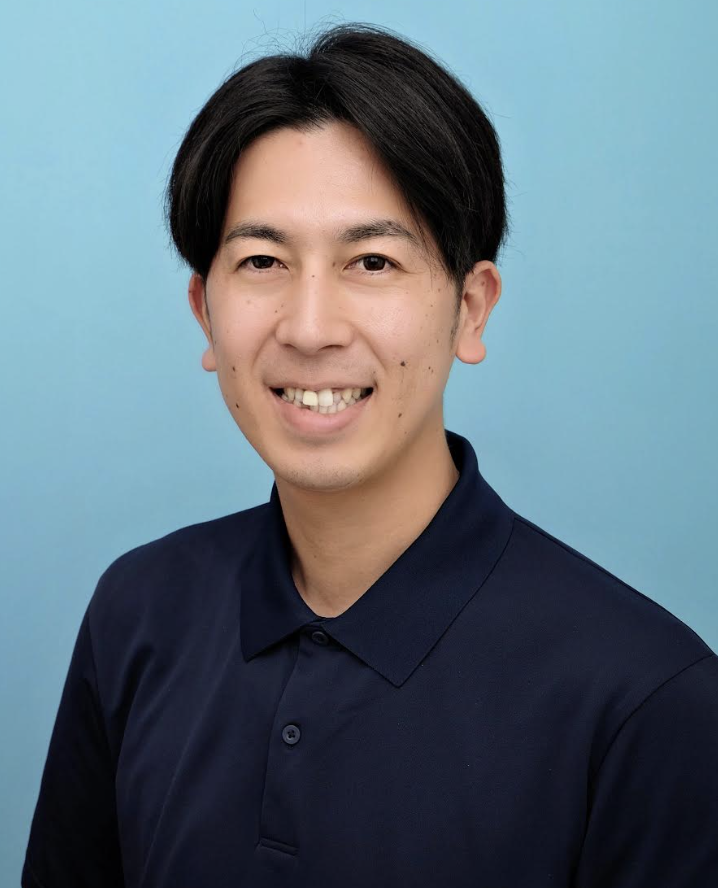
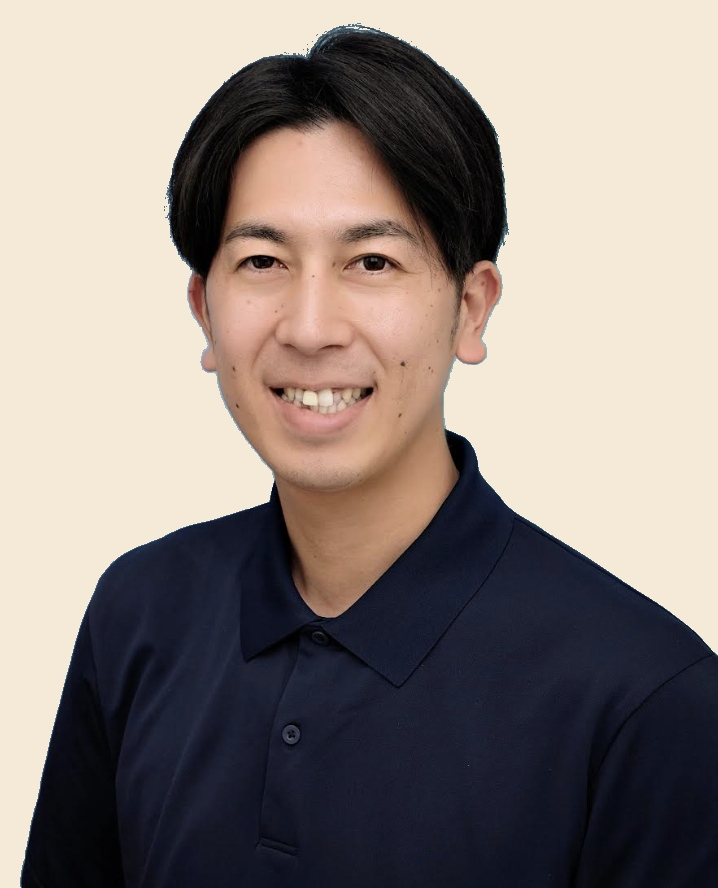
ヒーロー・ヘッダー全面リニューアル＋代表写真背景クリーム色化
- 代表写真の背景色を水色→クリーム#f5ead7に置換（Python Pillow）
- ヘッダー高さ: 64px→80px（デスクトップ）/ 60px 1行化（モバイル）
- モバイルヘッダーから電話番号削除・ロゴ+ハンバーガーの1行に整理
- ヒーロー: 代表写真を280px（デスクトップ）/ 160px（モバイル）に
- 装飾ロゴをヒーローから削除
- モバイルでキャッチコピーを写真より先に表示（CSS order制御）
- キャッチコピー: 48px（デスクトップ）/ 36px（タブレット）/ 28px（モバイル）
- CTAボタン: オレンジ#f59e0bに統一
- sticky-ctaにiPhone safe-area-inset-bottom対応

diff --git a/index.html b/index.html
@@ -74,28 +74,25 @@
   <style>
     /* トップページ専用スタイル */
     #hero {
-      margin-top: 108px;
+      margin-top: 128px;
       background: linear-gradient(135deg, #1e3a5f 0%, #2c5282 100%);
-      padding: 70px 20px 80px;
+      padding: 64px 20px 72px;
       color: #fff;
       position: relative;
       overflow: hidden;
     }
-    #hero::before { content: ''; position: absolute; top: -60px; right: -60px; width: 420px; height: 420px; background: rgba(255,255,255,0.04); border-radius: 50%; }
-    #hero::after { content: ''; position: absolute; bottom: -40px; left: -40px; width: 280px; height: 280px; background: rgba(255,255,255,0.03); border-radius: 50%; }
-    .hero-inner { max-width: 1100px; margin: 0 auto; display: grid; grid-template-columns: 2fr 3fr; gap: 60px; align-items: center; position: relative; z-index: 1; }
-    .hero-left { text-align: center; display: flex; flex-direction: column; align-items: center; gap: 16px; }
-    .hero-logo { height: 44px; width: auto; filter: drop-shadow(0 0 8px rgba(255,255,255,0.5)); }
-    .hero-rep-photo { width: 160px; height: 160px; border-radius: 50%; object-fit: cover; object-position: 50% 30%; border: 4px solid rgba(255,255,255,0.55); box-shadow: 0 8px 32px rgba(0,0,0,0.35); margin-left: auto; }
-    .hero-rep-name { font-size: 0.82rem; color: rgba(255,255,255,0.75); line-height: 1.7; letter-spacing: 0.05em; }
-    .hero-rep-name strong { display: block; font-size: 1.05rem; font-weight: 900; color: #fff; letter-spacing: 0.08em; }
-    .hero-catch { font-size: 2.5rem; font-weight: 900; line-height: 1.4; margin-bottom: 20px; letter-spacing: 0.04em; }
-    .hero-desc { font-size: 0.98rem; color: #cdd9e5; margin-bottom: 32px; line-height: 1.95; }
+    .hero-inner { max-width: 1100px; margin: 0 auto; display: grid; grid-template-columns: 320px 1fr; gap: 64px; align-items: center; }
+    .hero-left { text-align: center; display: flex; flex-direction: column; align-items: center; gap: 14px; }
+    .hero-rep-photo { width: 280px; height: 280px; border-radius: 50%; object-fit: cover; object-position: 50% 20%; border: 4px solid rgba(255,255,255,0.3); box-shadow: 0 12px 40px rgba(0,0,0,0.3); }
+    .hero-rep-name { font-size: 0.84rem; color: rgba(255,255,255,0.72); line-height: 1.7; letter-spacing: 0.05em; }
+    .hero-rep-name strong { display: block; font-size: 1.1rem; font-weight: 900; color: #fff; letter-spacing: 0.08em; }
+    .hero-catch { font-size: 3rem; font-weight: 900; line-height: 1.35; margin-bottom: 20px; letter-spacing: 0.04em; }
+    .hero-desc { font-size: 1rem; color: rgba(255,255,255,0.88); margin-bottom: 32px; line-height: 1.9; }
     .hero-cta-btns { display: flex; gap: 12px; flex-wrap: wrap; margin-bottom: 18px; }
     .hero-about-btn { display: inline-flex; align-items: center; justify-content: center; background: rgba(255,255,255,0.12); color: #fff; border: 2px solid rgba(255,255,255,0.45); border-radius: 10px; padding: 14px 22px; font-weight: 700; font-size: 0.92rem; transition: all 0.2s; text-decoration: none; }
     .hero-about-btn:hover { background: rgba(255,255,255,0.22); }
-    .hero-contact-btn { display: inline-flex; align-items: center; justify-content: center; background: var(--orange, #e07820); color: #fff; border-radius: 10px; padding: 14px 22px; font-weight: 700; font-size: 0.92rem; transition: background 0.2s; text-decoration: none; }
-    .hero-contact-btn:hover { background: #c0661a; }
+    .hero-contact-btn { display: inline-flex; align-items: center; justify-content: center; background: #f59e0b; color: #fff; border-radius: 10px; padding: 14px 22px; font-weight: 700; font-size: 0.92rem; transition: background 0.2s; text-decoration: none; }
+    .hero-contact-btn:hover { background: #d97706; }
     .hero-tel-small { font-size: 0.84rem; color: rgba(255,255,255,0.65); }
     .hero-tel-small a { color: rgba(255,255,255,0.9); font-weight: 700; text-decoration: none; border-bottom: 1px solid rgba(255,255,255,0.3); }
     /* 実績カウンター */
@@ -121,15 +118,19 @@
     .service-icon svg { width: 44px; height: 44px; }
 
     @media (max-width: 900px) {
-      .hero-inner { grid-template-columns: 1fr; gap: 36px; }
-      .hero-catch { font-size: 2rem; }
+      #hero { margin-top: 60px; padding: 40px 16px 56px; }
+      .hero-inner { grid-template-columns: 1fr; gap: 0; }
+      /* モバイル順序: キャッチ→サブ→CTA(hero-right)が先、写真(hero-left)が後 */
+      .hero-right { order: 1; }
+      .hero-left { order: 2; margin-top: 32px; }
+      .hero-catch { font-size: 2.25rem; }
+      .hero-rep-photo { width: 160px; height: 160px; margin: 0 auto; }
       .promises-grid { grid-template-columns: 1fr; gap: 20px; }
     }
     @media (max-width: 600px) {
-      #hero { padding: 44px 16px 56px; margin-top: 78px; }
-      .hero-rep-photo { width: 130px; height: 130px; margin-left: auto; }
-      .hero-catch { font-size: 1.7rem; line-height: 1.45; margin-bottom: 16px; }
-      .hero-desc { font-size: 0.91rem; line-height: 1.85; }
+      #hero { padding: 32px 16px 48px; }
+      .hero-catch { font-size: 1.75rem; line-height: 1.4; margin-bottom: 14px; }
+      .hero-desc { font-size: 0.93rem; line-height: 1.85; }
       .hero-cta-btns { flex-direction: column; }
       .hero-about-btn, .hero-contact-btn { text-align: center; padding: 16px 20px; font-size: 0.95rem; }
       /* ヘッダー */
@@ -244,9 +245,8 @@
 <section id="hero">
   <div class="hero-inner">
     <div class="hero-left">
-      <img src="logo.png" alt="神奈川まごころ整理センター ロゴ" class="hero-logo">
       <img src="IMG_1828.jpg" alt="神奈川まごころ整理センター代表取締役 粟野匠音" class="hero-rep-photo" onerror="this.style.display='none';this.nextElementSibling.style.display='flex';">
-      <div style="display:none;width:160px;height:160px;border-radius:50%;background:var(--navy,#1E3A5F);color:#fff;font-size:2rem;font-weight:900;align-items:center;justify-content:center;border:4px solid rgba(255,255,255,0.55);box-shadow:0 8px 32px rgba(0,0,0,0.35);margin-left:auto;">粟</div>
+      <div style="display:none;width:280px;height:280px;border-radius:50%;background:#2c5282;color:#fff;font-size:3rem;font-weight:900;align-items:center;justify-content:center;border:4px solid rgba(255,255,255,0.3);box-shadow:0 12px 40px rgba(0,0,0,0.3);">粟</div>
       <p class="hero-rep-name">代表取締役<strong>粟野 匠音</strong></p>
     </div>
     <div class="hero-right">

diff --git a/style.css b/style.css
@@ -83,7 +83,7 @@ a { text-decoration: none; color: inherit; }
   display: flex;
   align-items: center;
   justify-content: space-between;
-  padding: 12px 20px;
+  padding: 20px 24px;
   max-width: 1100px;
   margin: 0 auto;
 }
@@ -101,10 +101,10 @@ a { text-decoration: none; color: inherit; }
   padding: 10px 20px;
   font-size: 0.8rem;
   color: var(--gray);
-  margin-top: 108px;
+  margin-top: 128px;
 }
 @media (max-width: 900px) {
-  .breadcrumb { margin-top: 78px; }
+  .breadcrumb { margin-top: 60px; }
 }
 .breadcrumb a { color: var(--navy); }
 .breadcrumb span { margin: 0 6px; }
@@ -278,7 +278,7 @@ footer { background: #111; color: #888; font-size: 0.8rem; padding: 30px 20px; t
 footer p { margin-bottom: 6px; }
 
 /* ===== 固定CTA（スマホ） ===== */
-.sticky-cta { display: none; position: fixed; bottom: 0; left: 0; right: 0; z-index: 999; background: var(--navy); padding: 10px 16px; gap: 10px; }
+.sticky-cta { display: none; position: fixed; bottom: 0; left: 0; right: 0; z-index: 999; background: var(--navy); padding: 10px 16px; padding-bottom: calc(10px + env(safe-area-inset-bottom)); gap: 10px; }
 .sticky-tel { flex: 1; background: var(--orange); color: #fff; text-align: center; padding: 14px 8px; border-radius: 8px; font-weight: 900; font-size: 1rem; min-height: 52px; display: flex; align-items: center; justify-content: center; }
 .sticky-line { flex: 1; background: #06c755; color: #fff; text-align: center; padding: 14px 8px; border-radius: 8px; font-weight: 900; font-size: 1rem; min-height: 52px; display: flex; align-items: center; justify-content: center; }
 
@@ -316,25 +316,16 @@ footer p { margin-bottom: 6px; }
   .section-title { font-size: 1.35rem; line-height: 1.5; margin-bottom: 10px; }
   .section-sub { font-size: 0.88rem; margin-bottom: 30px; }
 
-  /* ヘッダー：スマホ2行レイアウト */
+  /* ヘッダー：スマホ1行レイアウト（60px） */
   .header-inner {
-    flex-direction: column;
-    align-items: flex-start;
-    padding: 8px 12px;
-    gap: 3px;
-  }
-  .header-logo { font-size: 0.88rem; gap: 7px; white-space: nowrap; }
-  .header-logo img { height: 28px !important; }
-  .header-tel {
     flex-direction: row;
     align-items: center;
-    justify-content: flex-start;
-    gap: 8px;
-    width: 100%;
+    padding: 0 16px;
+    height: 60px;
   }
-  .header-tel small { display: block !important; font-size: 0.7rem; color: #9ab; white-space: nowrap; }
-  .header-tel a { font-size: 1.1rem; letter-spacing: 0.02em; }
-  .header-tel a::before { content: "📞 "; font-size: 0.9rem; }
+  .header-logo { font-size: 0.9rem; gap: 8px; white-space: nowrap; }
+  .header-logo img { height: 30px !important; }
+  .header-tel { display: none; }
 
   /* サービスカード：1列 */
   .services-grid { grid-template-columns: 1fr; gap: 12px; }
@@ -425,7 +416,7 @@ footer p { margin-bottom: 6px; }
    ======================================== */
 #main-nav {
   position: fixed;
-  top: 64px;
+  top: 80px;
   left: 0; right: 0;
   z-index: 998;
   background: #fff;
